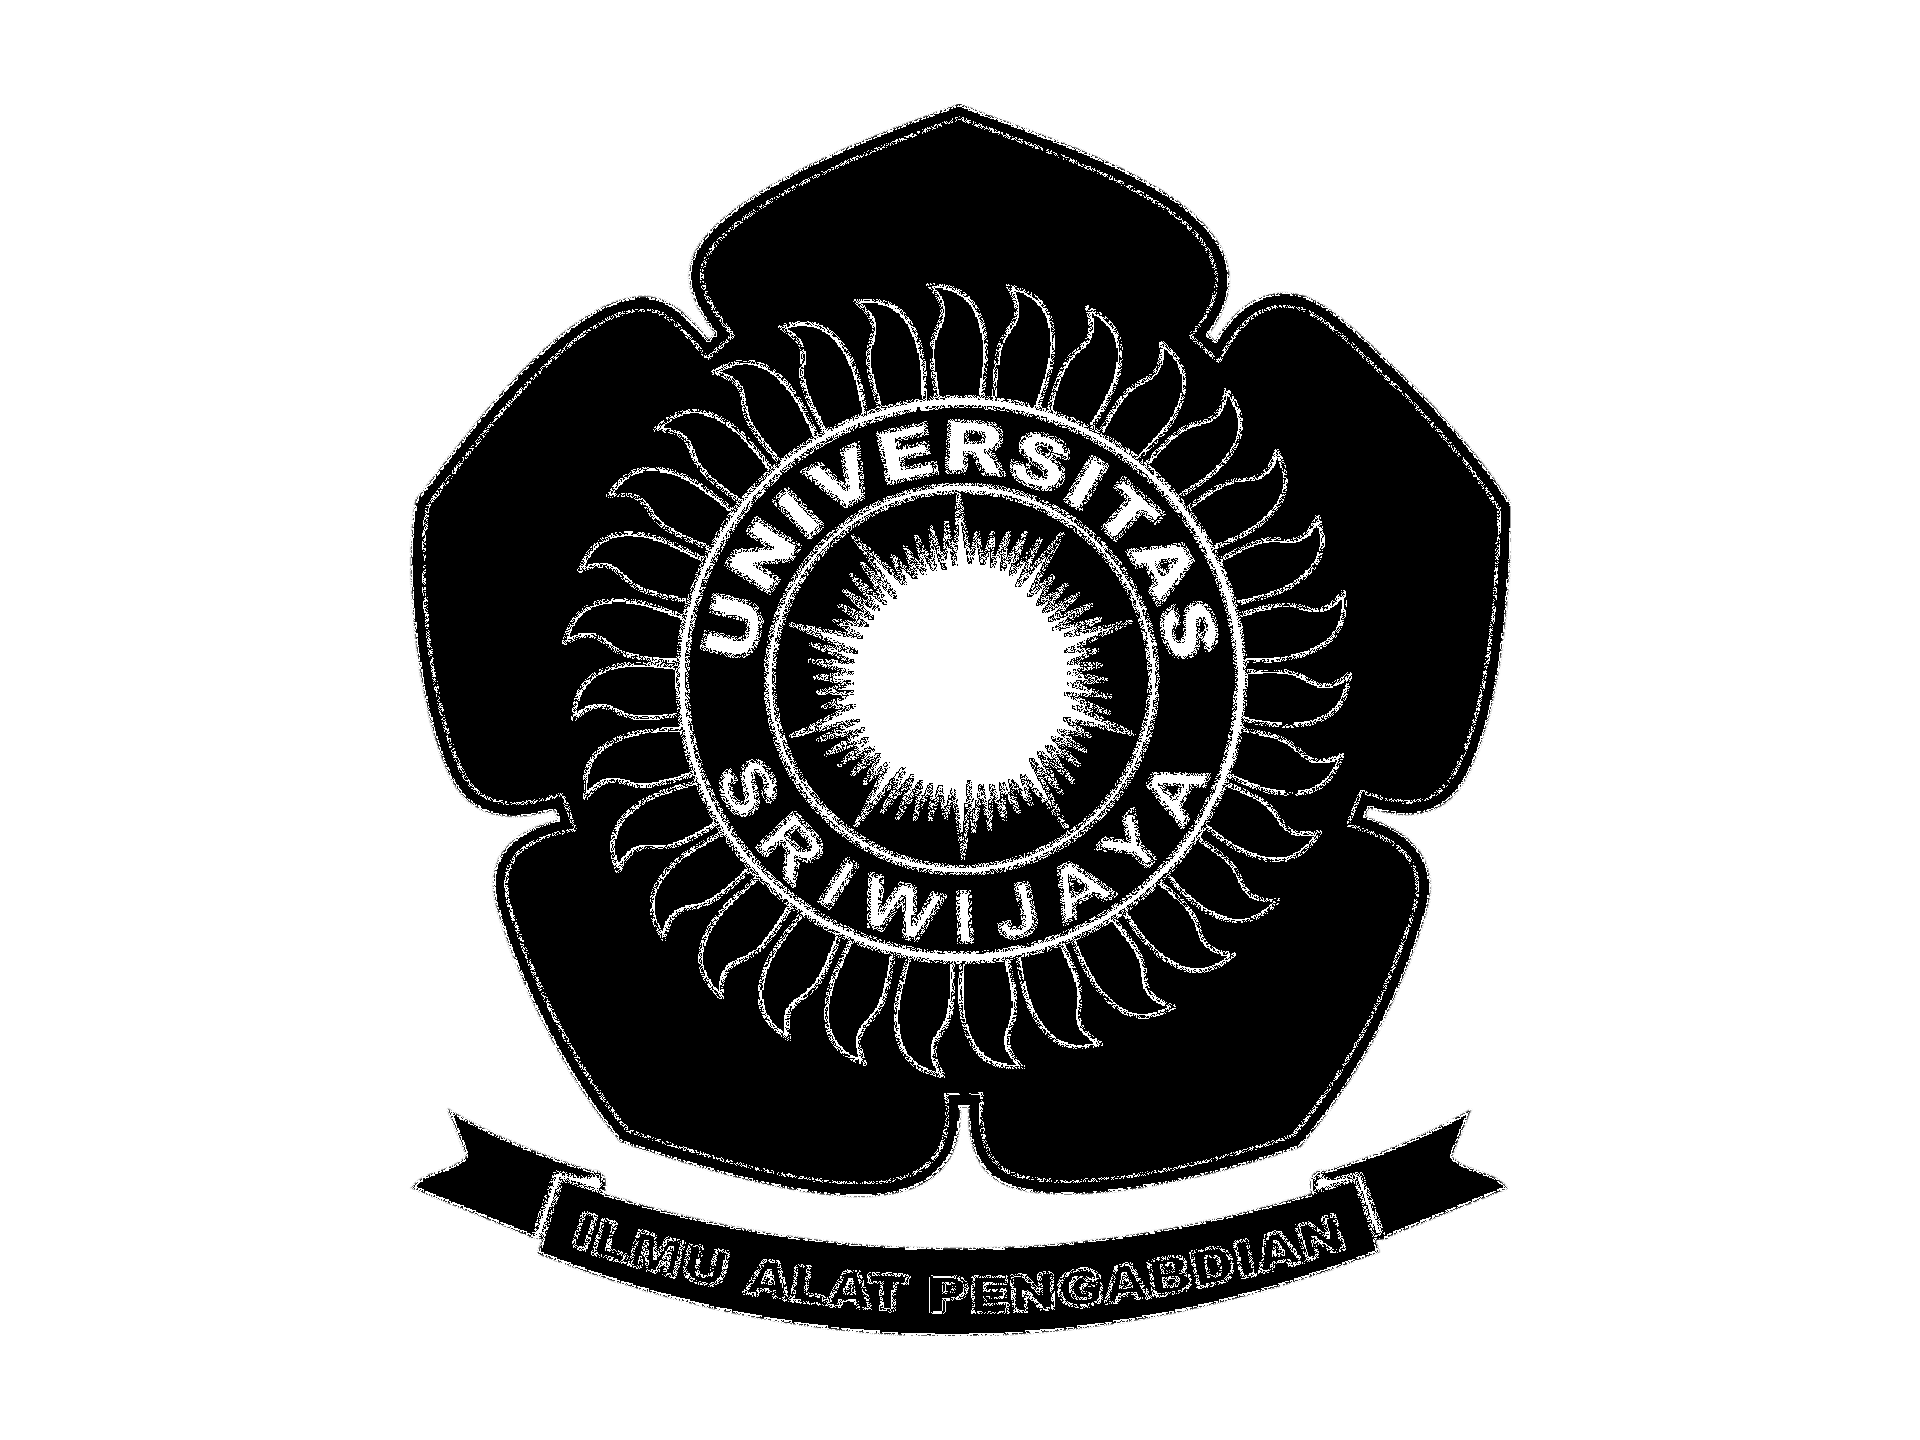
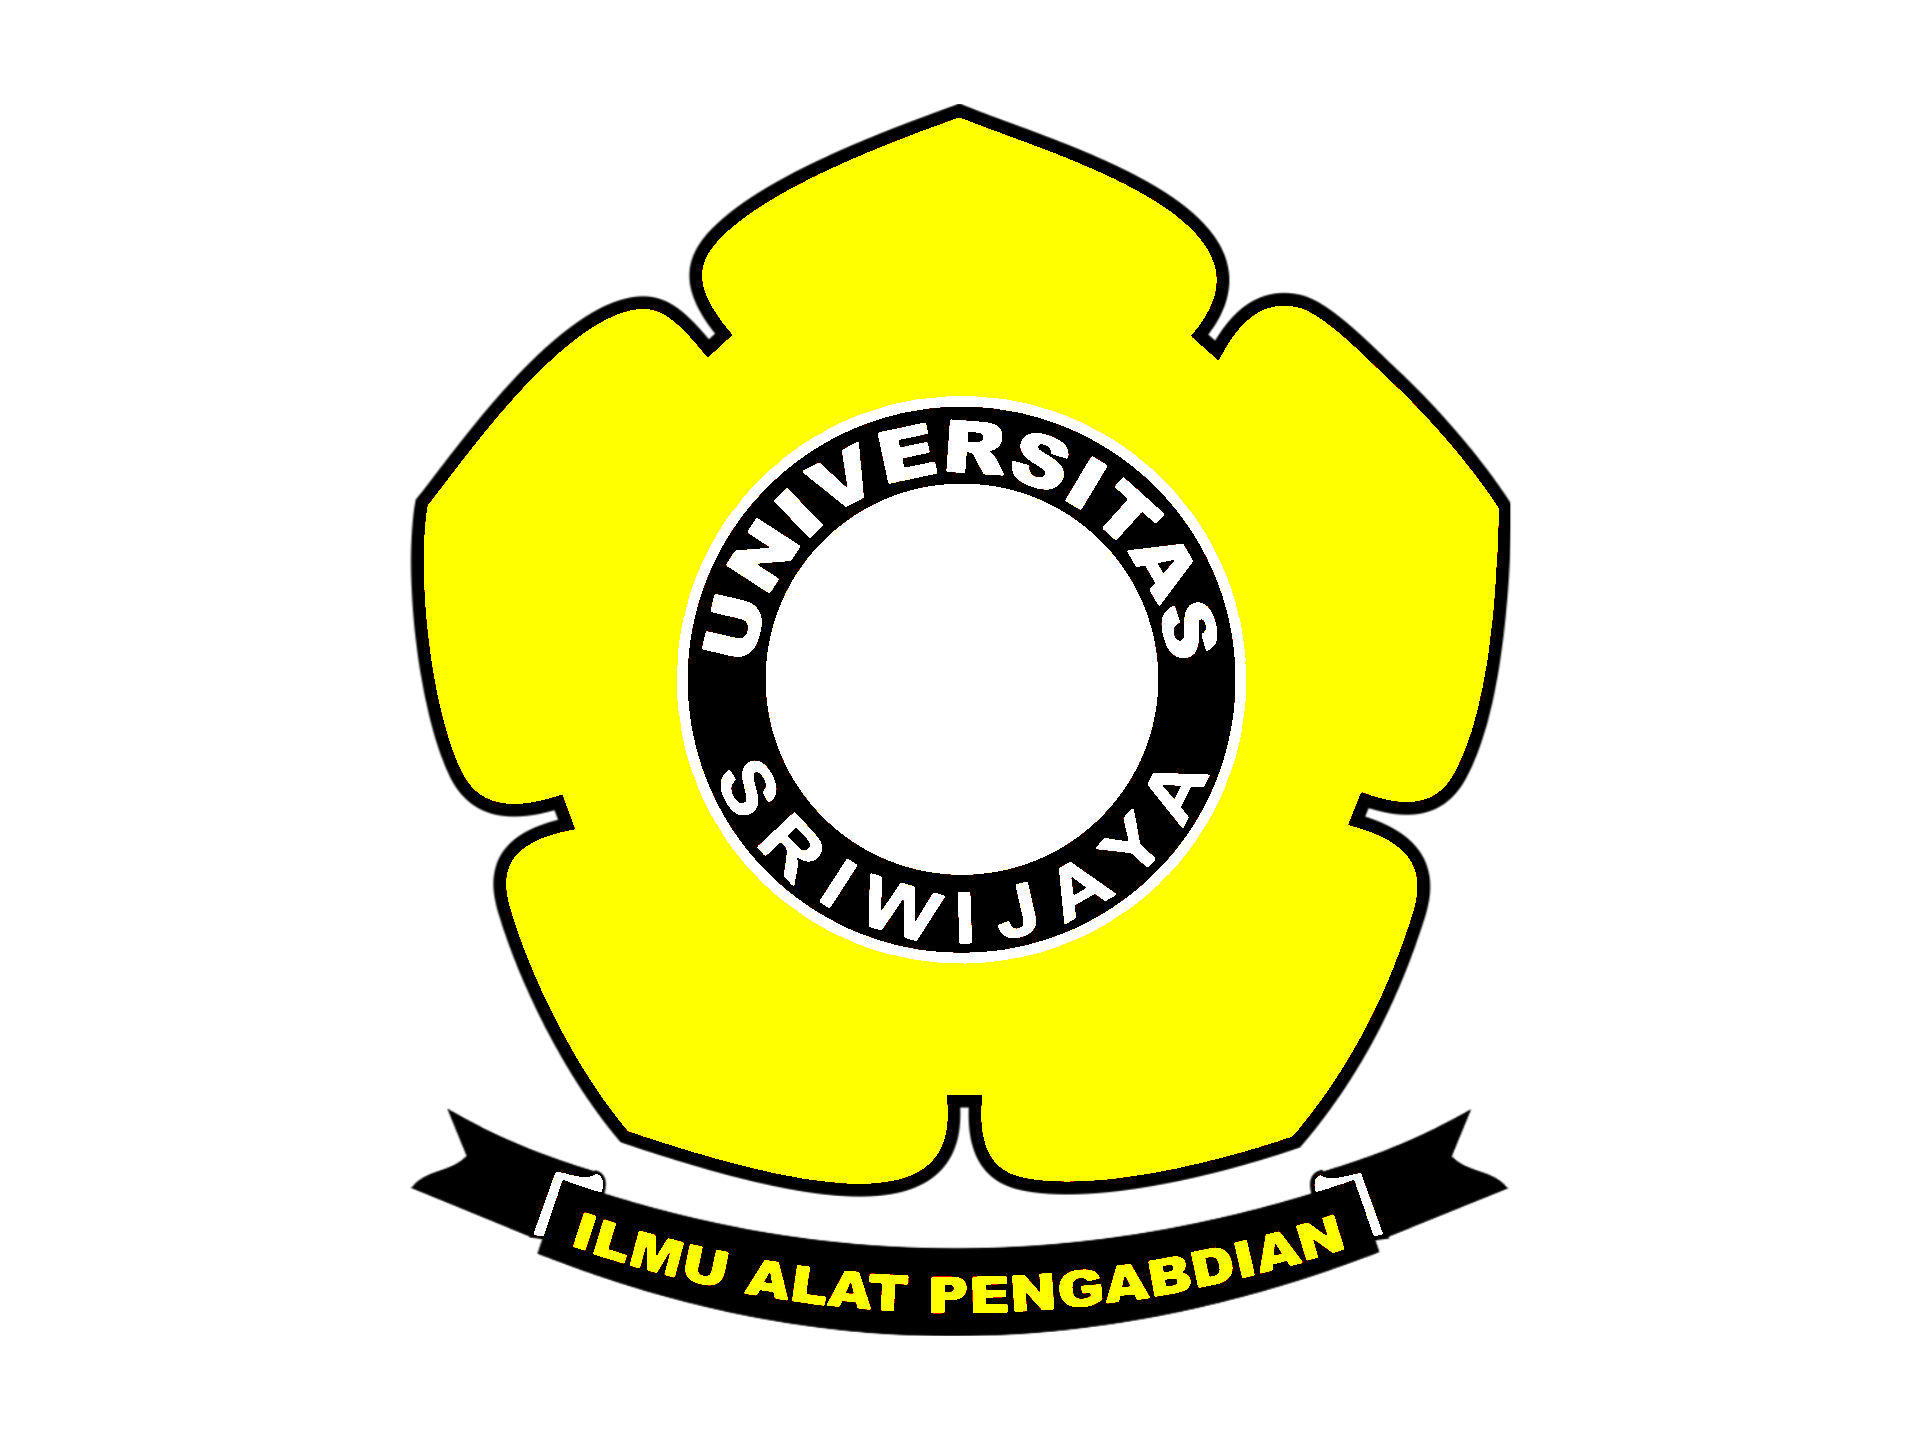
Threshold and filepath
- Added threshold code
- Changed file path to read locally

Changed region(s): [[0.2188, 0.0625, 0.7812, 0.8438], [0.2812, 0.8125, 0.7188, 0.9375]]

diff --git a/ImageProcessor.java b/ImageProcessor.java
@@ -15,7 +15,7 @@ public class ImageProcessor {
 
         // Reads an image from a file
         File inputFile = new File(
-            "D:/Jojo_Data/java/Logo Unsri - Lalu Ahmad.png" // input file path
+            "./Logo Unsri - Lalu Ahmad.png" // input file path
         );
         image = ImageIO.read(inputFile);
         System.out.println("Reading complete.");
@@ -32,9 +32,17 @@ public class ImageProcessor {
                 int r = (p >> 16) & 0xFF;
                 int g = (p >> 8) & 0xFF;
                 int b = p & 0xFF;
-                int avg = (r + g + b) / 3;
-                avg = (avg % 2) * 255;
-                r = g = b = avg;
+
+                // // Turn RGB to Grayscale
+                // int avg = (r + g + b) / 3;
+                // avg = (avg % 2) * 255;
+                // r = g = b = avg;
+
+                // Threshold
+                int threshold = 100;
+                r = (r > threshold) ? 255 : 0;
+                g = (g > threshold) ? 255 : 0;
+                b = (b > threshold) ? 255 : 0;
 
                 // Set new RGB value
                 p = ((a) << 24) | (r << 16) | (g << 8) | b;
@@ -44,7 +52,7 @@ public class ImageProcessor {
 
         // Writes an image to a file
         File outputFile = new File(
-            "D:/Jojo_Data/java/test.png" // output file path
+            "./test.png" // output file path
         );
         ImageIO.write(image, "png", outputFile);
         System.out.println("Writing complete.");
